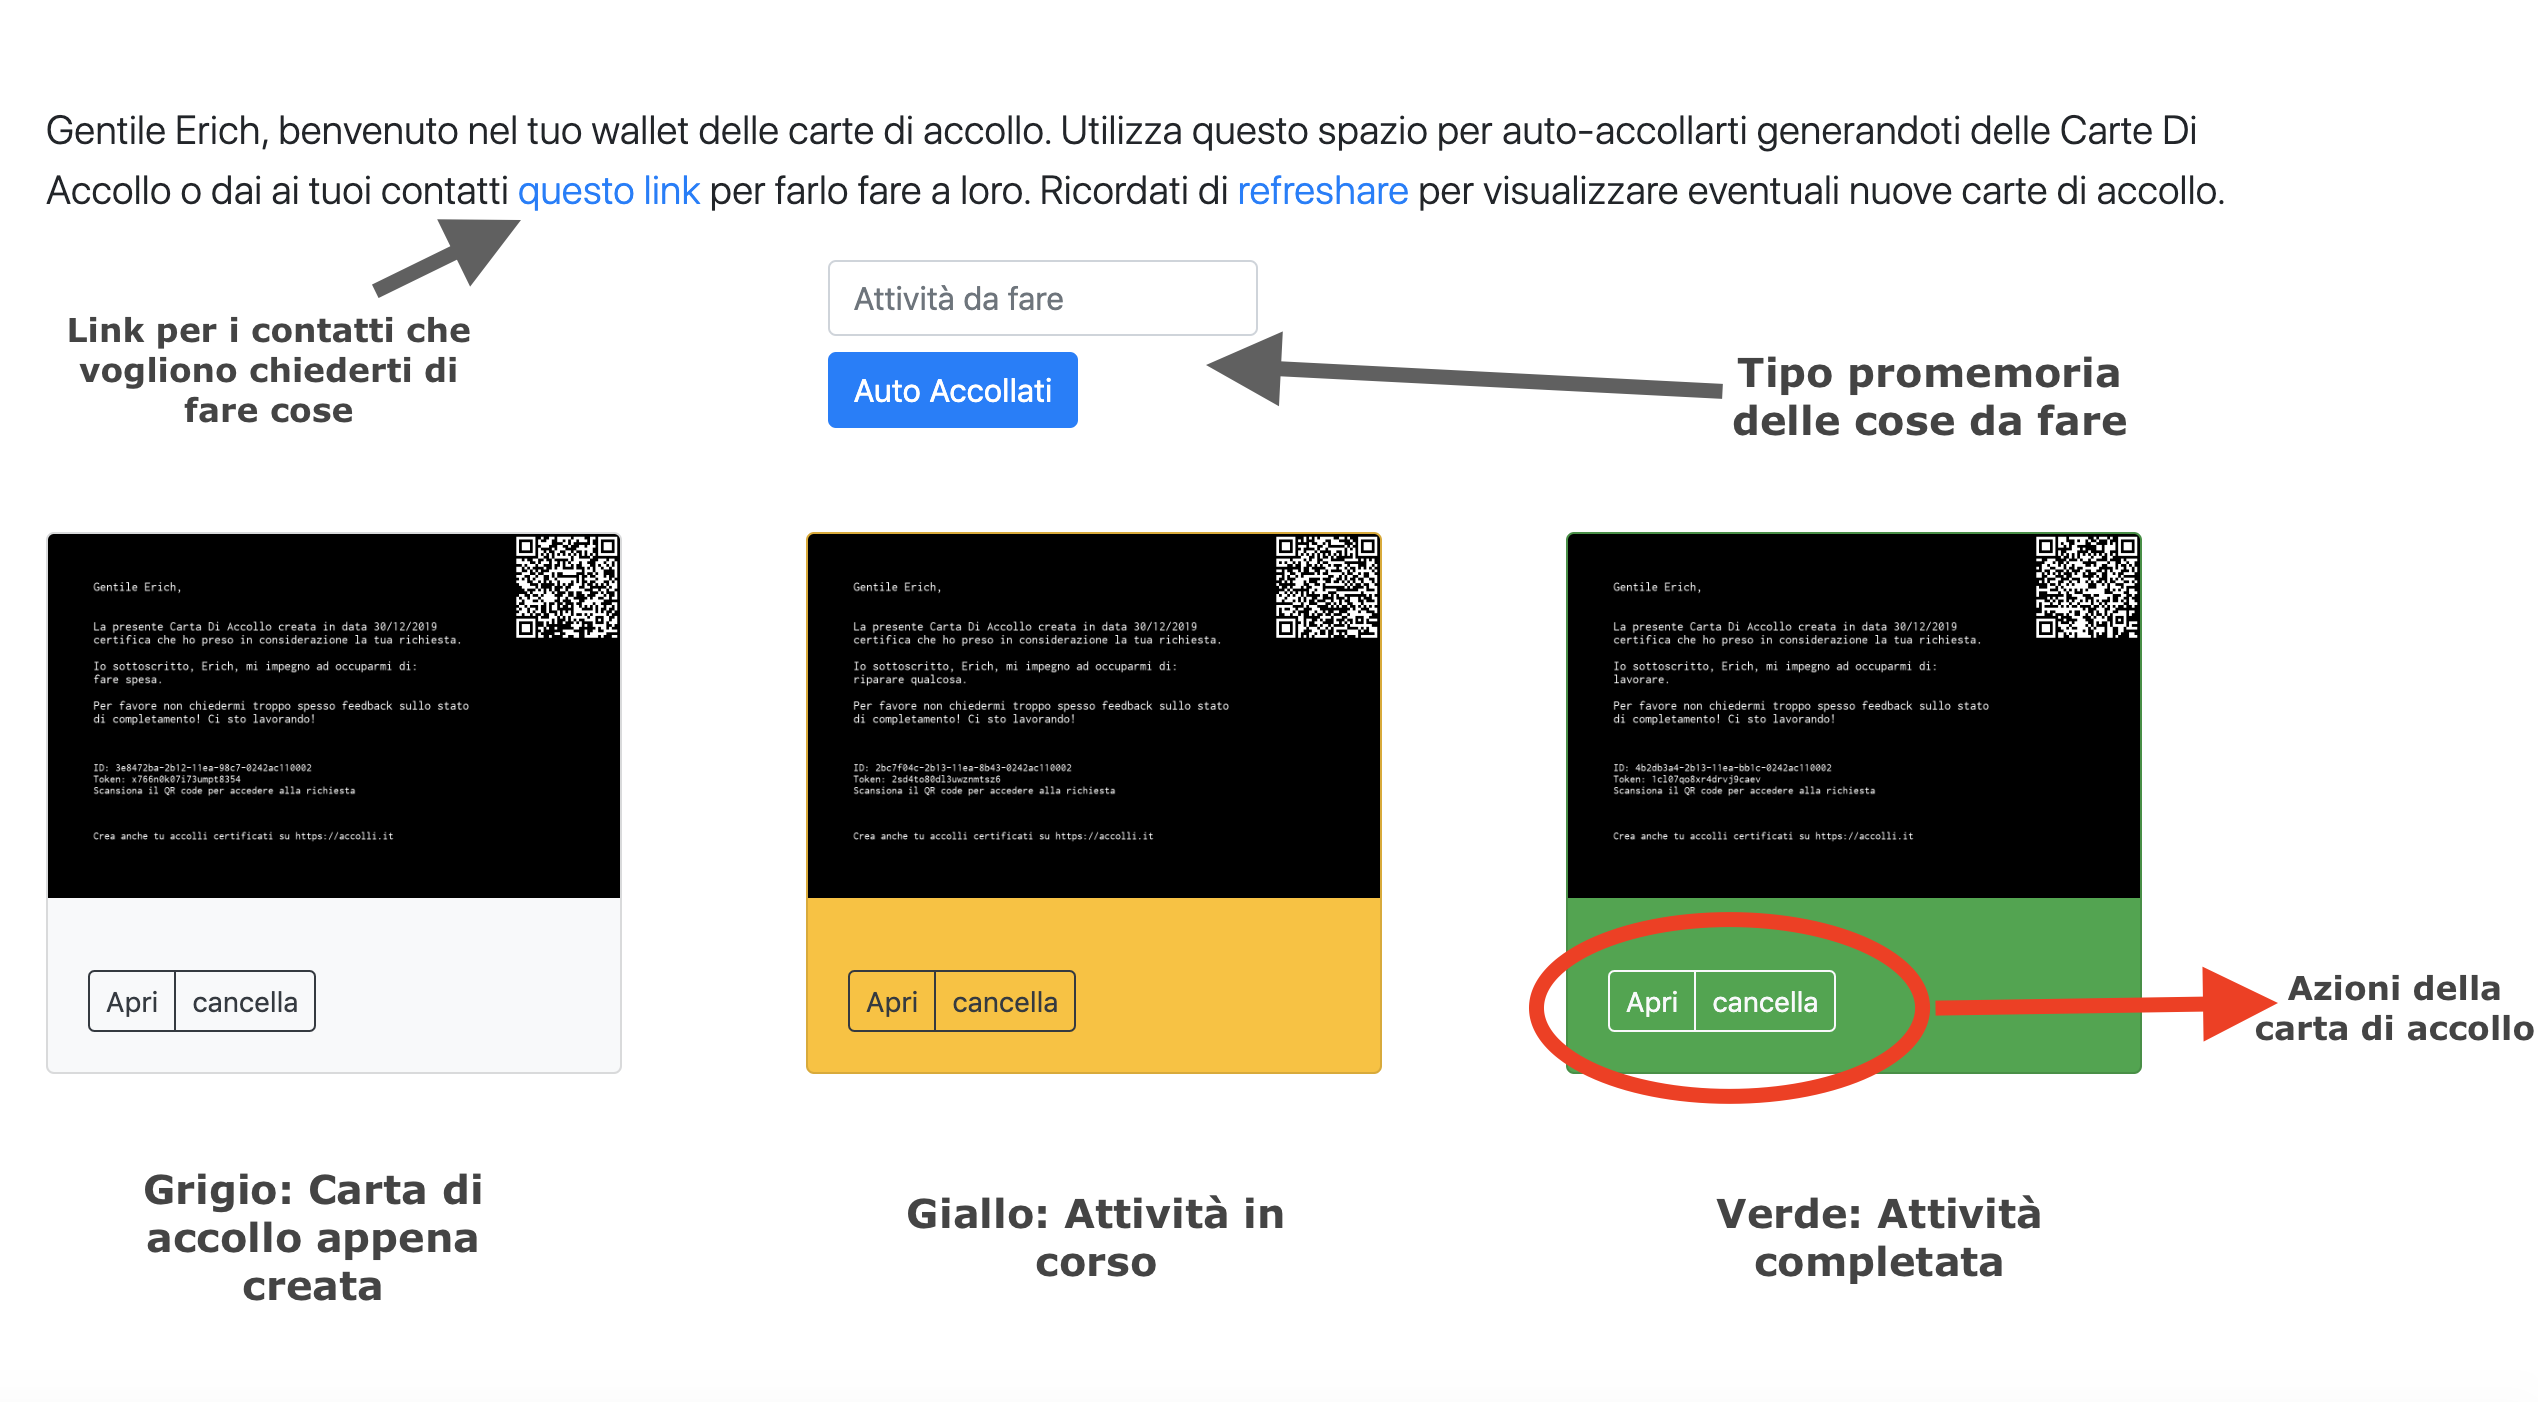
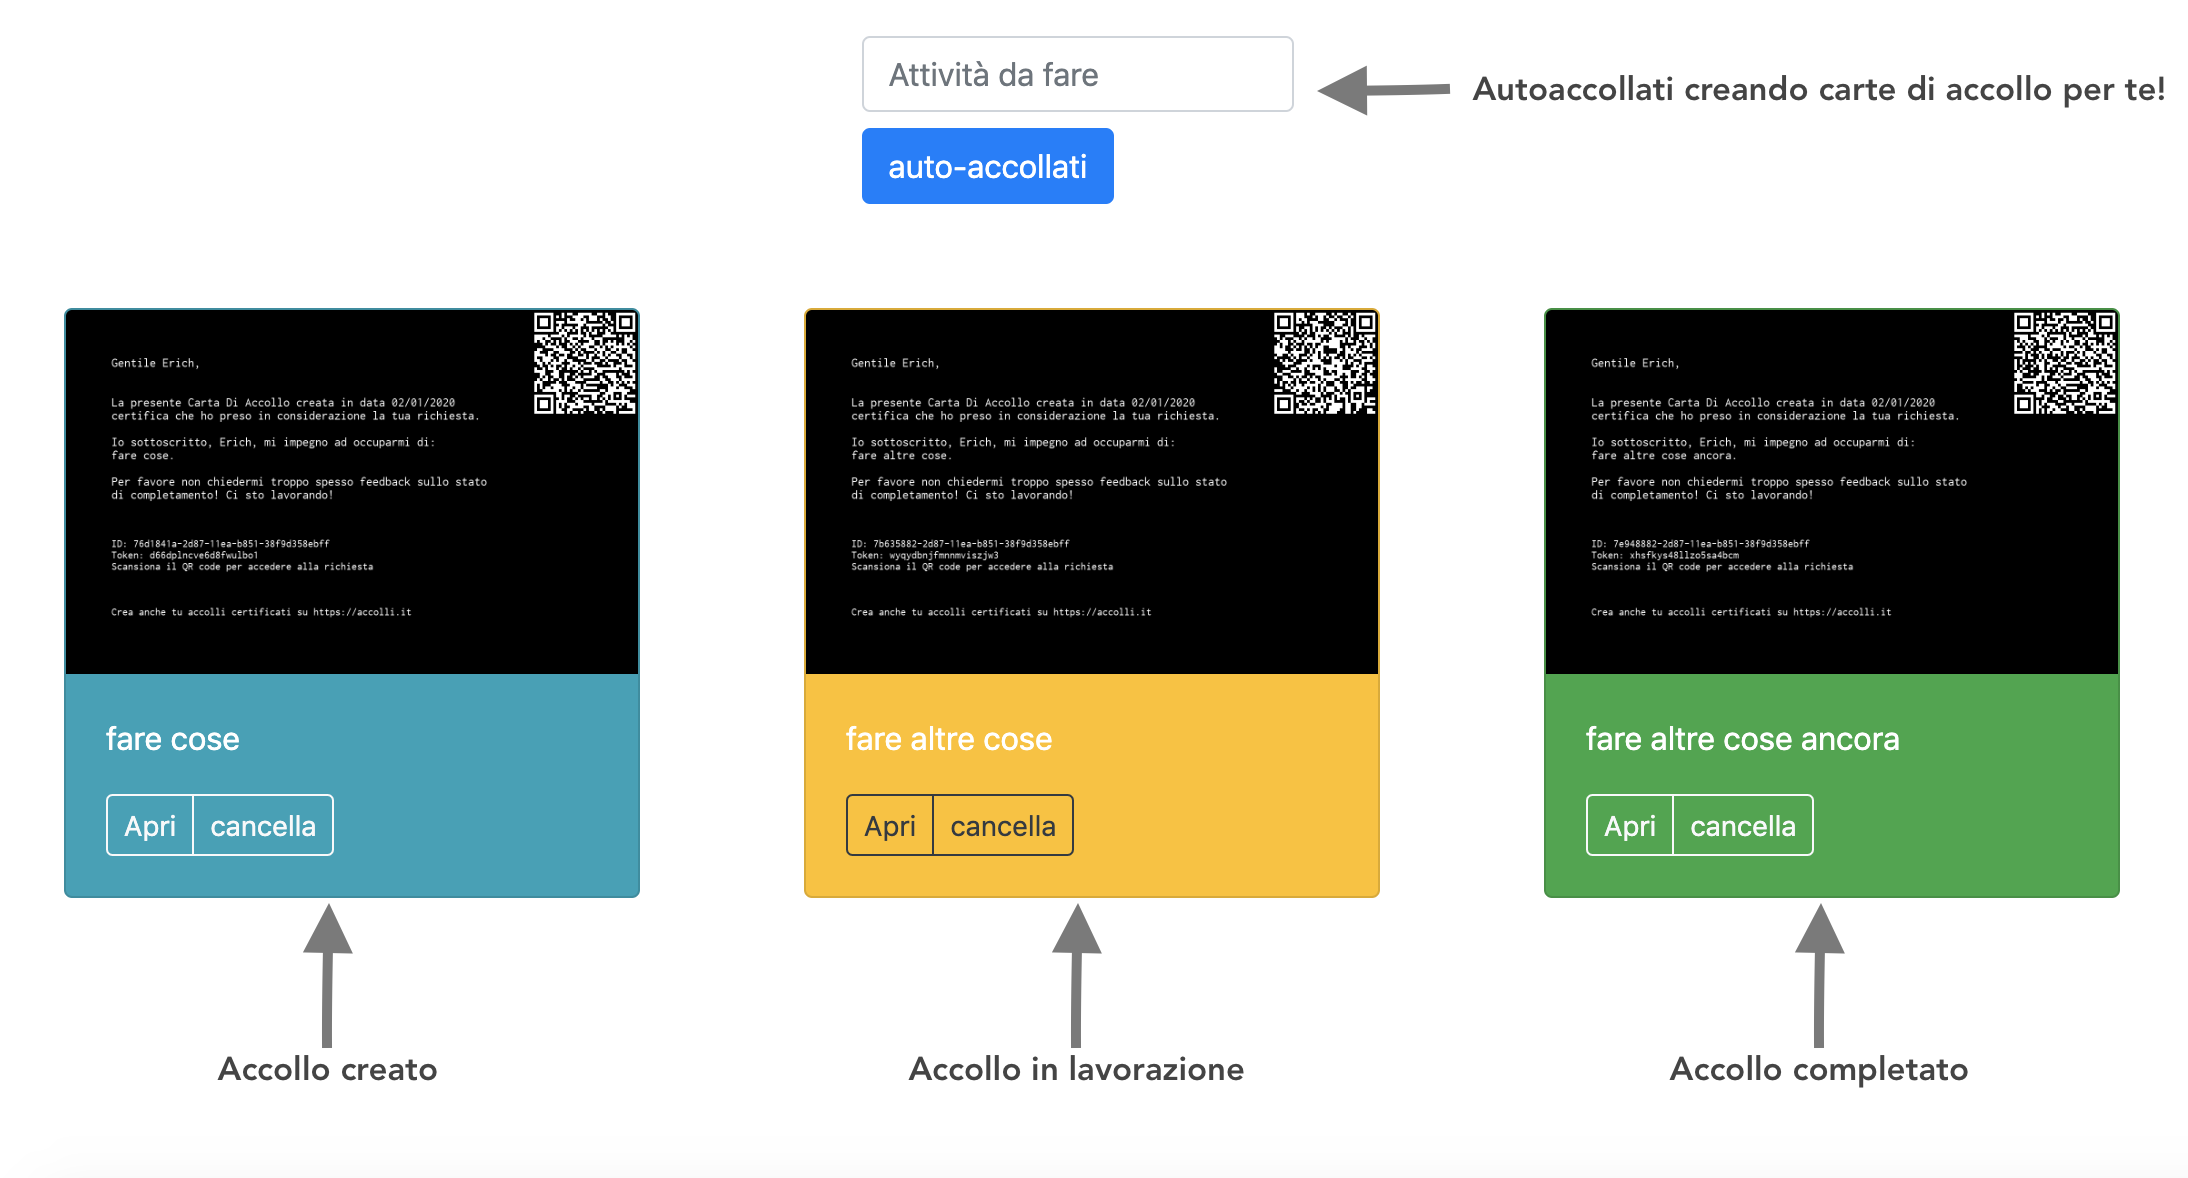
some fixes

diff --git a/templates/index.html b/templates/index.html
@@ -40,7 +40,7 @@
             <a class="nav-link btn" data-toggle="modal" data-target="#registerModal" href="/#">Sign In</a>
             {% endif %}
             {% if session['username'] %}
-            <a class="nav-link btn btn-danger bg-danger text-white" role="button" href="/dashboard_accolli">Accolli di {{session['username']}}</a>
+            <a class="nav-link btn" role="button" href="/dashboard_accolli">Accolli di {{session['username']}}</a>
             <a class="nav-link" href="/logout">Logout</a>
             {% endif %}
           </nav>
@@ -115,11 +115,8 @@
           </div>
         </div>
       </div>
-    <div class="row row-margin-05 justify-content-md-center">
-      <h1 class="cover-heading">Accolli.it</h1>
-    </div>
-    <div class="container">
 
+    <div class="container">
       <div class="row">
         <div class="col-lg">
           <div class="panel panel-info">
@@ -128,7 +125,7 @@
               </div>
               <div class="panel-body">
                 <p>Certifica che qualcuno ti si sta accollando!<br>Guarda questo esempio  <a href="static/example.png">di come Erich si acolla a John!</a></p>
-                {% if alert or request.args.get('qr_how_to') == 'true' %}
+                {% if request.args.get('qr_how_to') == 'true' %}
                 <div class="alert alert-info  alert-dismissible" role="alert" id="inputalert">
                   <a href="#" class="close" data-dismiss="alert" aria-label="close">&times;</a>
                   Hai scansionato il QR della carta di Erich e John! Crea anche tu carte di accollo! 
@@ -141,8 +138,15 @@
         <div class="col-lg">
           <main role="main" class="inner cover">
             <div class="row row-margin-05 justify-content-md-center">
+            {% if session['username'] %}
+            <a class="btn btn-info text-white btn-md btn-block" role="button" href="/dashboard_accolli">Apri wallet di {{session['username']}}</a>
+            {% endif %}
+            </div>
+            <div class="row row-margin-05 justify-content-md-center">
               {% if accolloformdashboard %}
-              <p class="lead">Genera una Carta Di Accollo per <strong>{{ dashboard['name'] }}</strong></p>
+              <div class="alert alert-primary" role="alert">
+                <p class="lead">Genera una Carta Di Accollo per <strong>{{ dashboard['name'] }}</strong></p>
+              </div>
               {% else %}
               <p class="lead">Genera la Carta Di Accollo per chi ti si sta accollando! 
               </p>
@@ -156,7 +160,7 @@
             {% if alert or request.args.get('alert') == 'true' %}
             <div class="alert alert-info  alert-dismissible" role="alert" id="inputalert">
               <a href="#" class="close" data-dismiss="alert" aria-label="close">&times;</a>
-              Gentile utente i campi da lei inseriti devono essere minimo di 2 caratteri. Il nominativo di chi si sta accollando ed il tuo devono essere massimo di 20 mentre l'attività richiesta può contenere 60 caratteri.
+              Gentile utente i campi da lei inseriti devono essere minimo di 2 caratteri. Il nominativo di chi si sta accollando ed il tuo devono essere massimo di 30 mentre l'attività richiesta può contenere 60 caratteri.
             </div>
             {% endif %}
             {% if user_already_exists %}
@@ -208,8 +212,7 @@
         </div>
       </div>
       <div class="row row-margin-30 justify-content-md-center">
-        <h4>Prova il comodo wallet degli accolli! </h4>
-        <a class="nav-link" data-toggle="modal" data-target="#registerModal" href="/#">Sign In</a>
+        <h4>Registrati e prova il comodo wallet degli accolli! Ecco come funziona...</h4>
         <div class="col-md-auto">
           <img src="static/wallet.png" class="img-fluid img-rounded zoom" alt="Responsive image">
         </div>

diff --git a/templates/dashboard_accolli.html b/templates/dashboard_accolli.html
@@ -63,7 +63,7 @@
             {% if session['username'] %}
             <a class="nav-link active" href="https://accolli.it">Home</a>
             <a class="nav-link" href="mailto:luckysideburn@gmail.com">Contatti</a>
-            <a class="nav-link nav-link btn btn-danger bg-danger text-white"" href="/dashboard_accolli">Accolli di {{session['username']}}</a>
+            <a class="nav-link" href="/dashboard_accolli">Accolli di {{session['username']}}</a>
             <a class="nav-link" href="/logout">Logout</a>
             {% endif %}
           </nav>
@@ -120,7 +120,7 @@
               <input type="text" class="form-control" id="task" name="task" placeholder="Attività da fare">
             </div>
             <div class="col-auto my-1">
-              <button type="submit" class="btn btn-primary">Auto Accollati</button>
+              <button type="submit" class="btn btn-primary">auto-accollati</button>
             </div>
           </div>
         </form>
@@ -131,7 +131,7 @@
             {% for card in accolli %}
             <div class="col-md-4">
               {% if card['status'] == 'open' %}
-              <div class="card bg-light mb-3" style="max-width: 18rem;">
+              <div class="card text-white bg-info mb-3" style="max-width: 18rem;">
               {% elif card['status'] == 'progress' %}
               <div class="card text-white bg-warning mb-3" style="max-width: 18rem;">             
               {% elif card['status'] == 'done' %}
@@ -143,8 +143,8 @@
                   <div class="d-flex justify-content-between align-items-center">
                     <div class="btn-group">    
                       {% if card['status'] == 'open' %}
-                      <a href="{{ card['url'] }}&dashboard_id={{id}}&dashboard_token={{token}}" class="btn btn-sm btn-outline-dark" role="button">Apri</a>
-                      <a href="https://accolli.it/delete?id={{ card['uuid'] }}" class="btn btn-sm btn-outline-dark" role="button">cancella</a>              
+                      <a href="{{ card['url'] }}&dashboard_id={{id}}&dashboard_token={{token}}" class="btn btn-sm btn-outline-light" role="button">Apri</a>
+                      <a href="https://accolli.it/delete?id={{ card['uuid'] }}" class="btn btn-sm btn-outline-light" role="button">cancella</a>              
                       {% elif card['status'] == 'progress' %}
                       <a href="{{ card['url'] }}&dashboard_id={{id}}&dashboard_token={{token}}" class="btn btn-sm btn-outline-dark" role="button">Apri</a>
                       <a href="https://accolli.it/delete?id={{ card['uuid'] }}" class="btn btn-sm btn-outline-dark" role="button">cancella</a>  

diff --git a/templates/show.html b/templates/show.html
@@ -73,7 +73,7 @@
           <a class="nav-link active" href="https://accolli.it">Home</a>
           <a class="nav-link" href="mailto:luckysideburn@gmail.com">Contatti</a>
           {% if session['username'] %}
-          <a class="nav-link btn btn-danger bg-danger text-white"" href="/dashboard_accolli">Accolli di {{session['username']}}</a>
+          <a class="nav-link" href="/dashboard_accolli">Accolli di {{session['username']}}</a>
           <a class="nav-link" href="/logout">Logout</a>
           {% endif %}
         </nav>

diff --git a/app.py b/app.py
@@ -315,7 +315,7 @@ def cartadiaccollo():
       for _input in inputs:
         if (len(result[_input]) < 2):
           return redirect(return_url, code=302)
-      if ((len(result['sender']) > 20) or (len(result['recipient']) > 20)):
+      if ((len(result['sender']) > 30) or (len(result['recipient']) > 30)):
         return redirect(return_url, code=302)
       elif (len(result['task']) > 60):
         return redirect(return_url, code=302)
@@ -336,7 +336,7 @@ def cartadiaccollo():
       for _input in inputs:
         if (len(result[_input]) < 2):
           return render_template('index.html', alert=True, accolloform=True)
-      if ((len(result['sender']) > 20) or (len(result['recipient']) > 20)):
+      if ((len(result['sender']) > 30) or (len(result['recipient']) > 30)):
         return render_template('index.html', alert=True, accolloform=True)
       elif (len(result['task']) > 60):
         return render_template('index.html', alert=True, accolloform=True)
